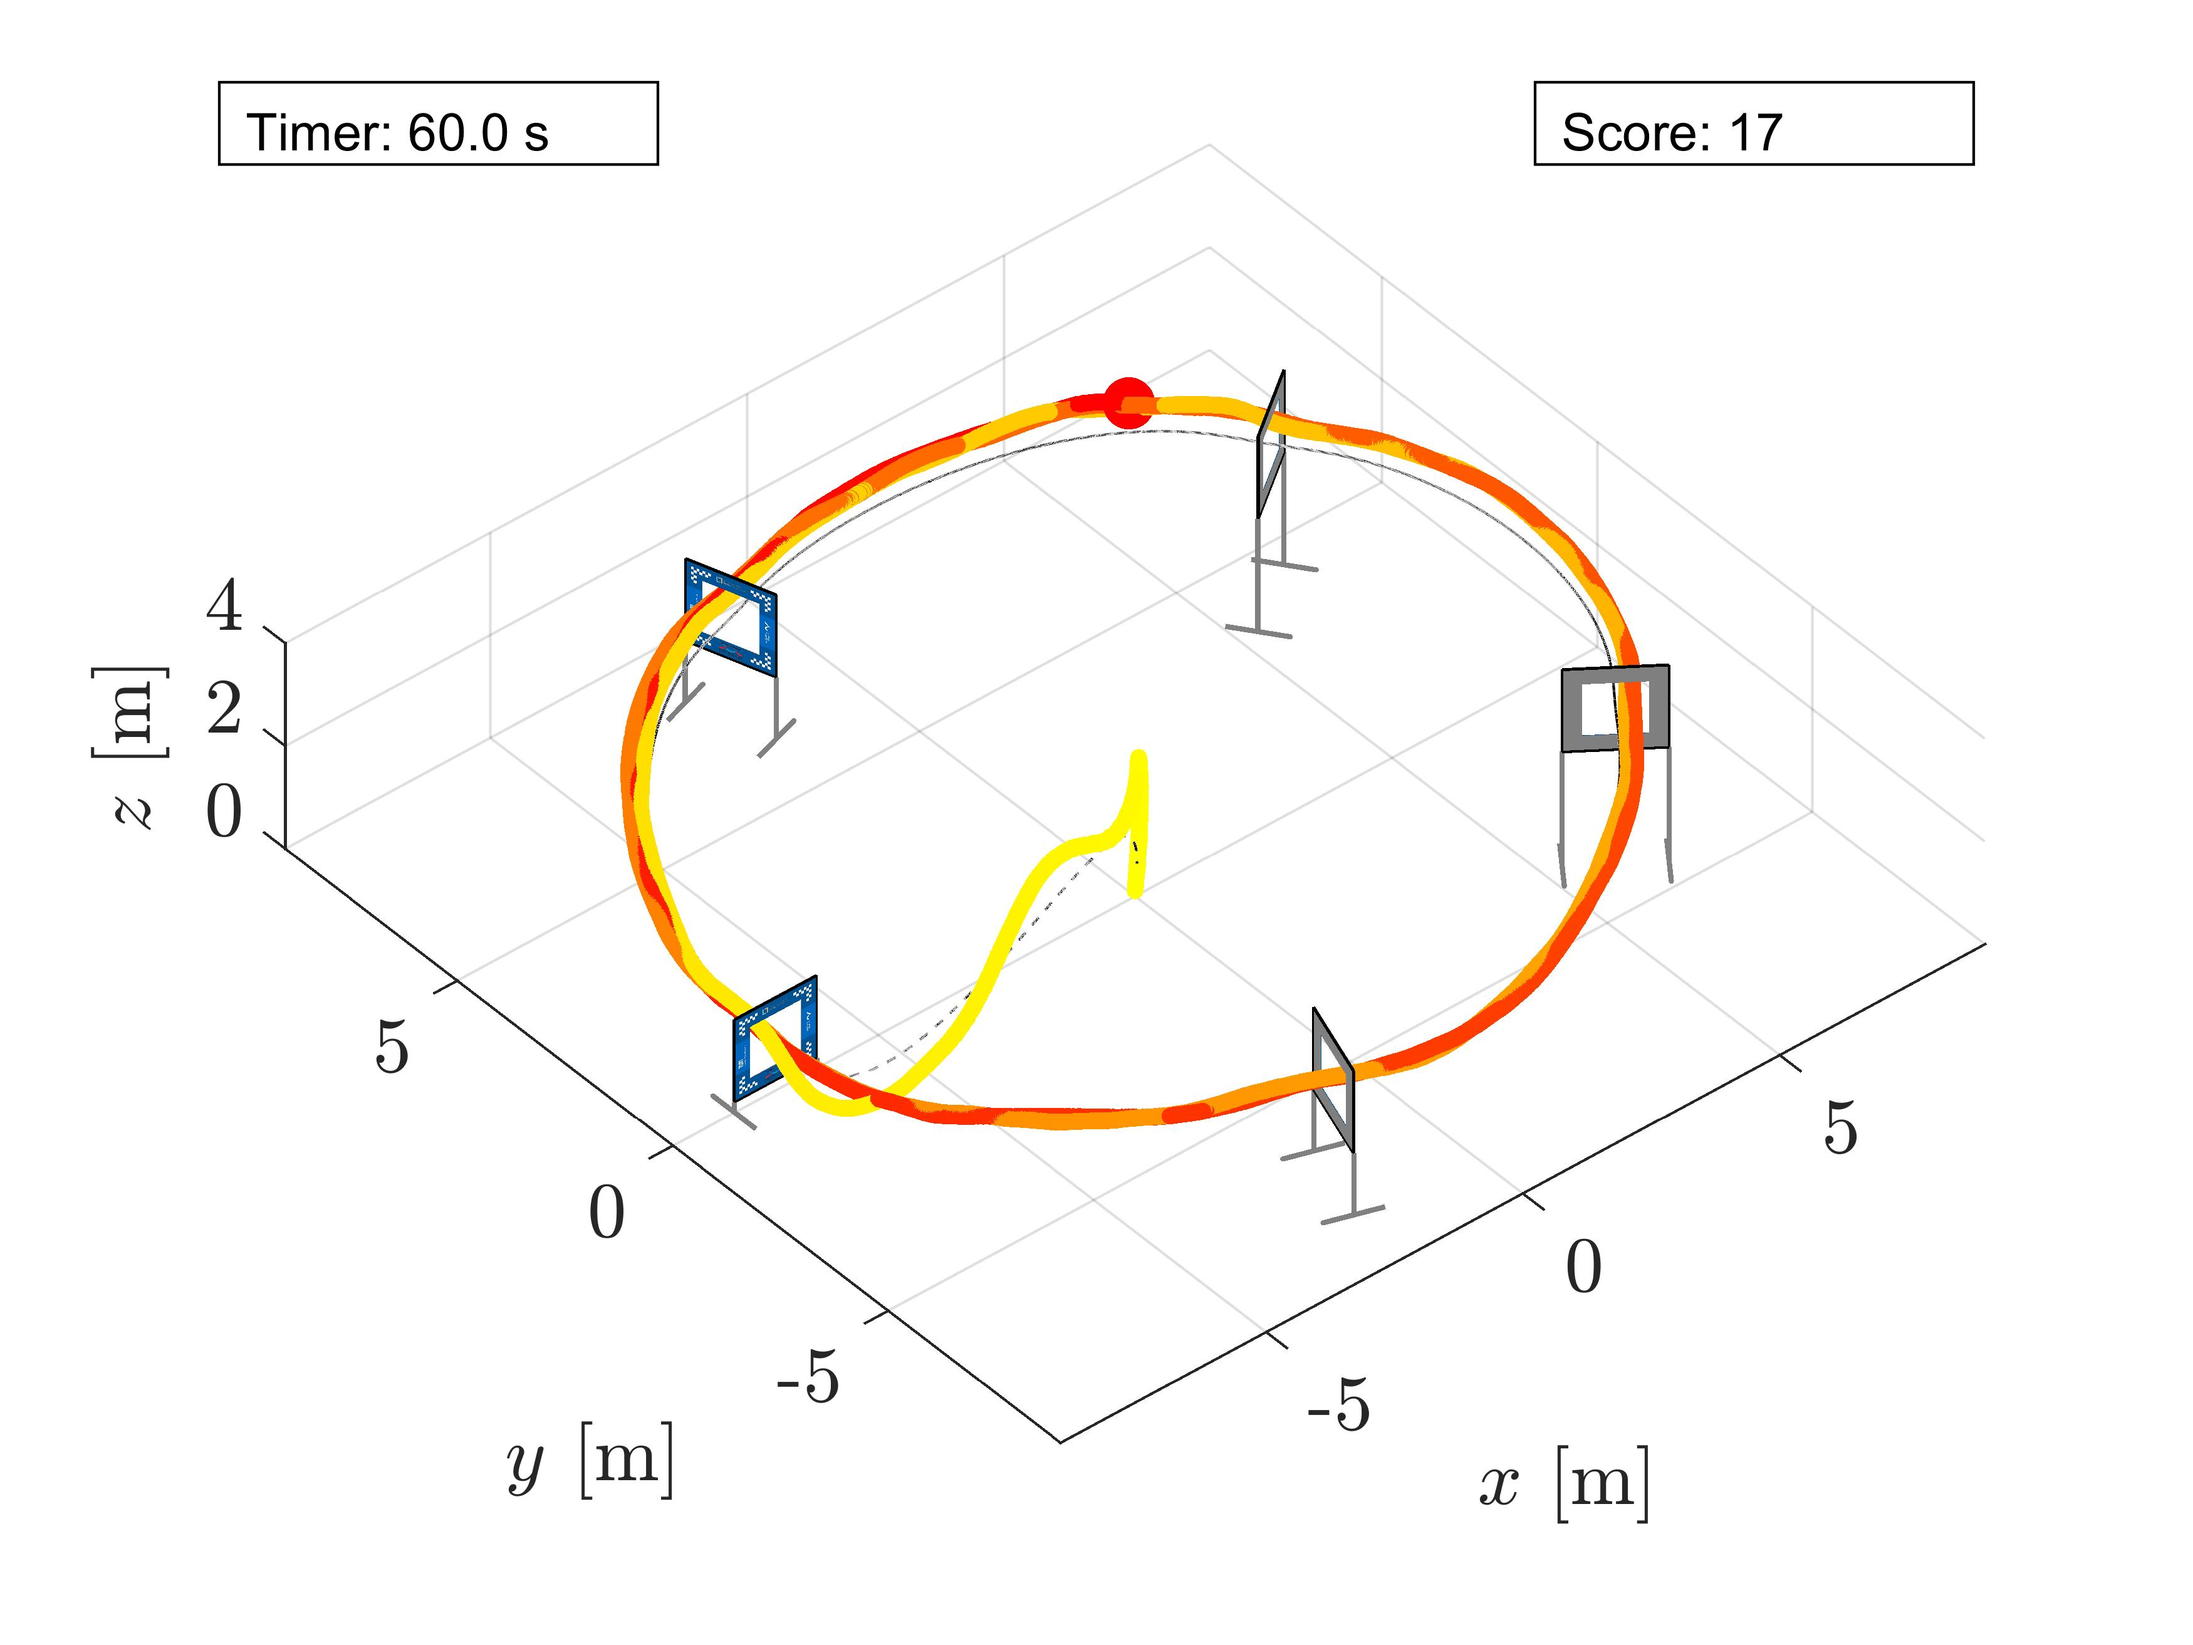
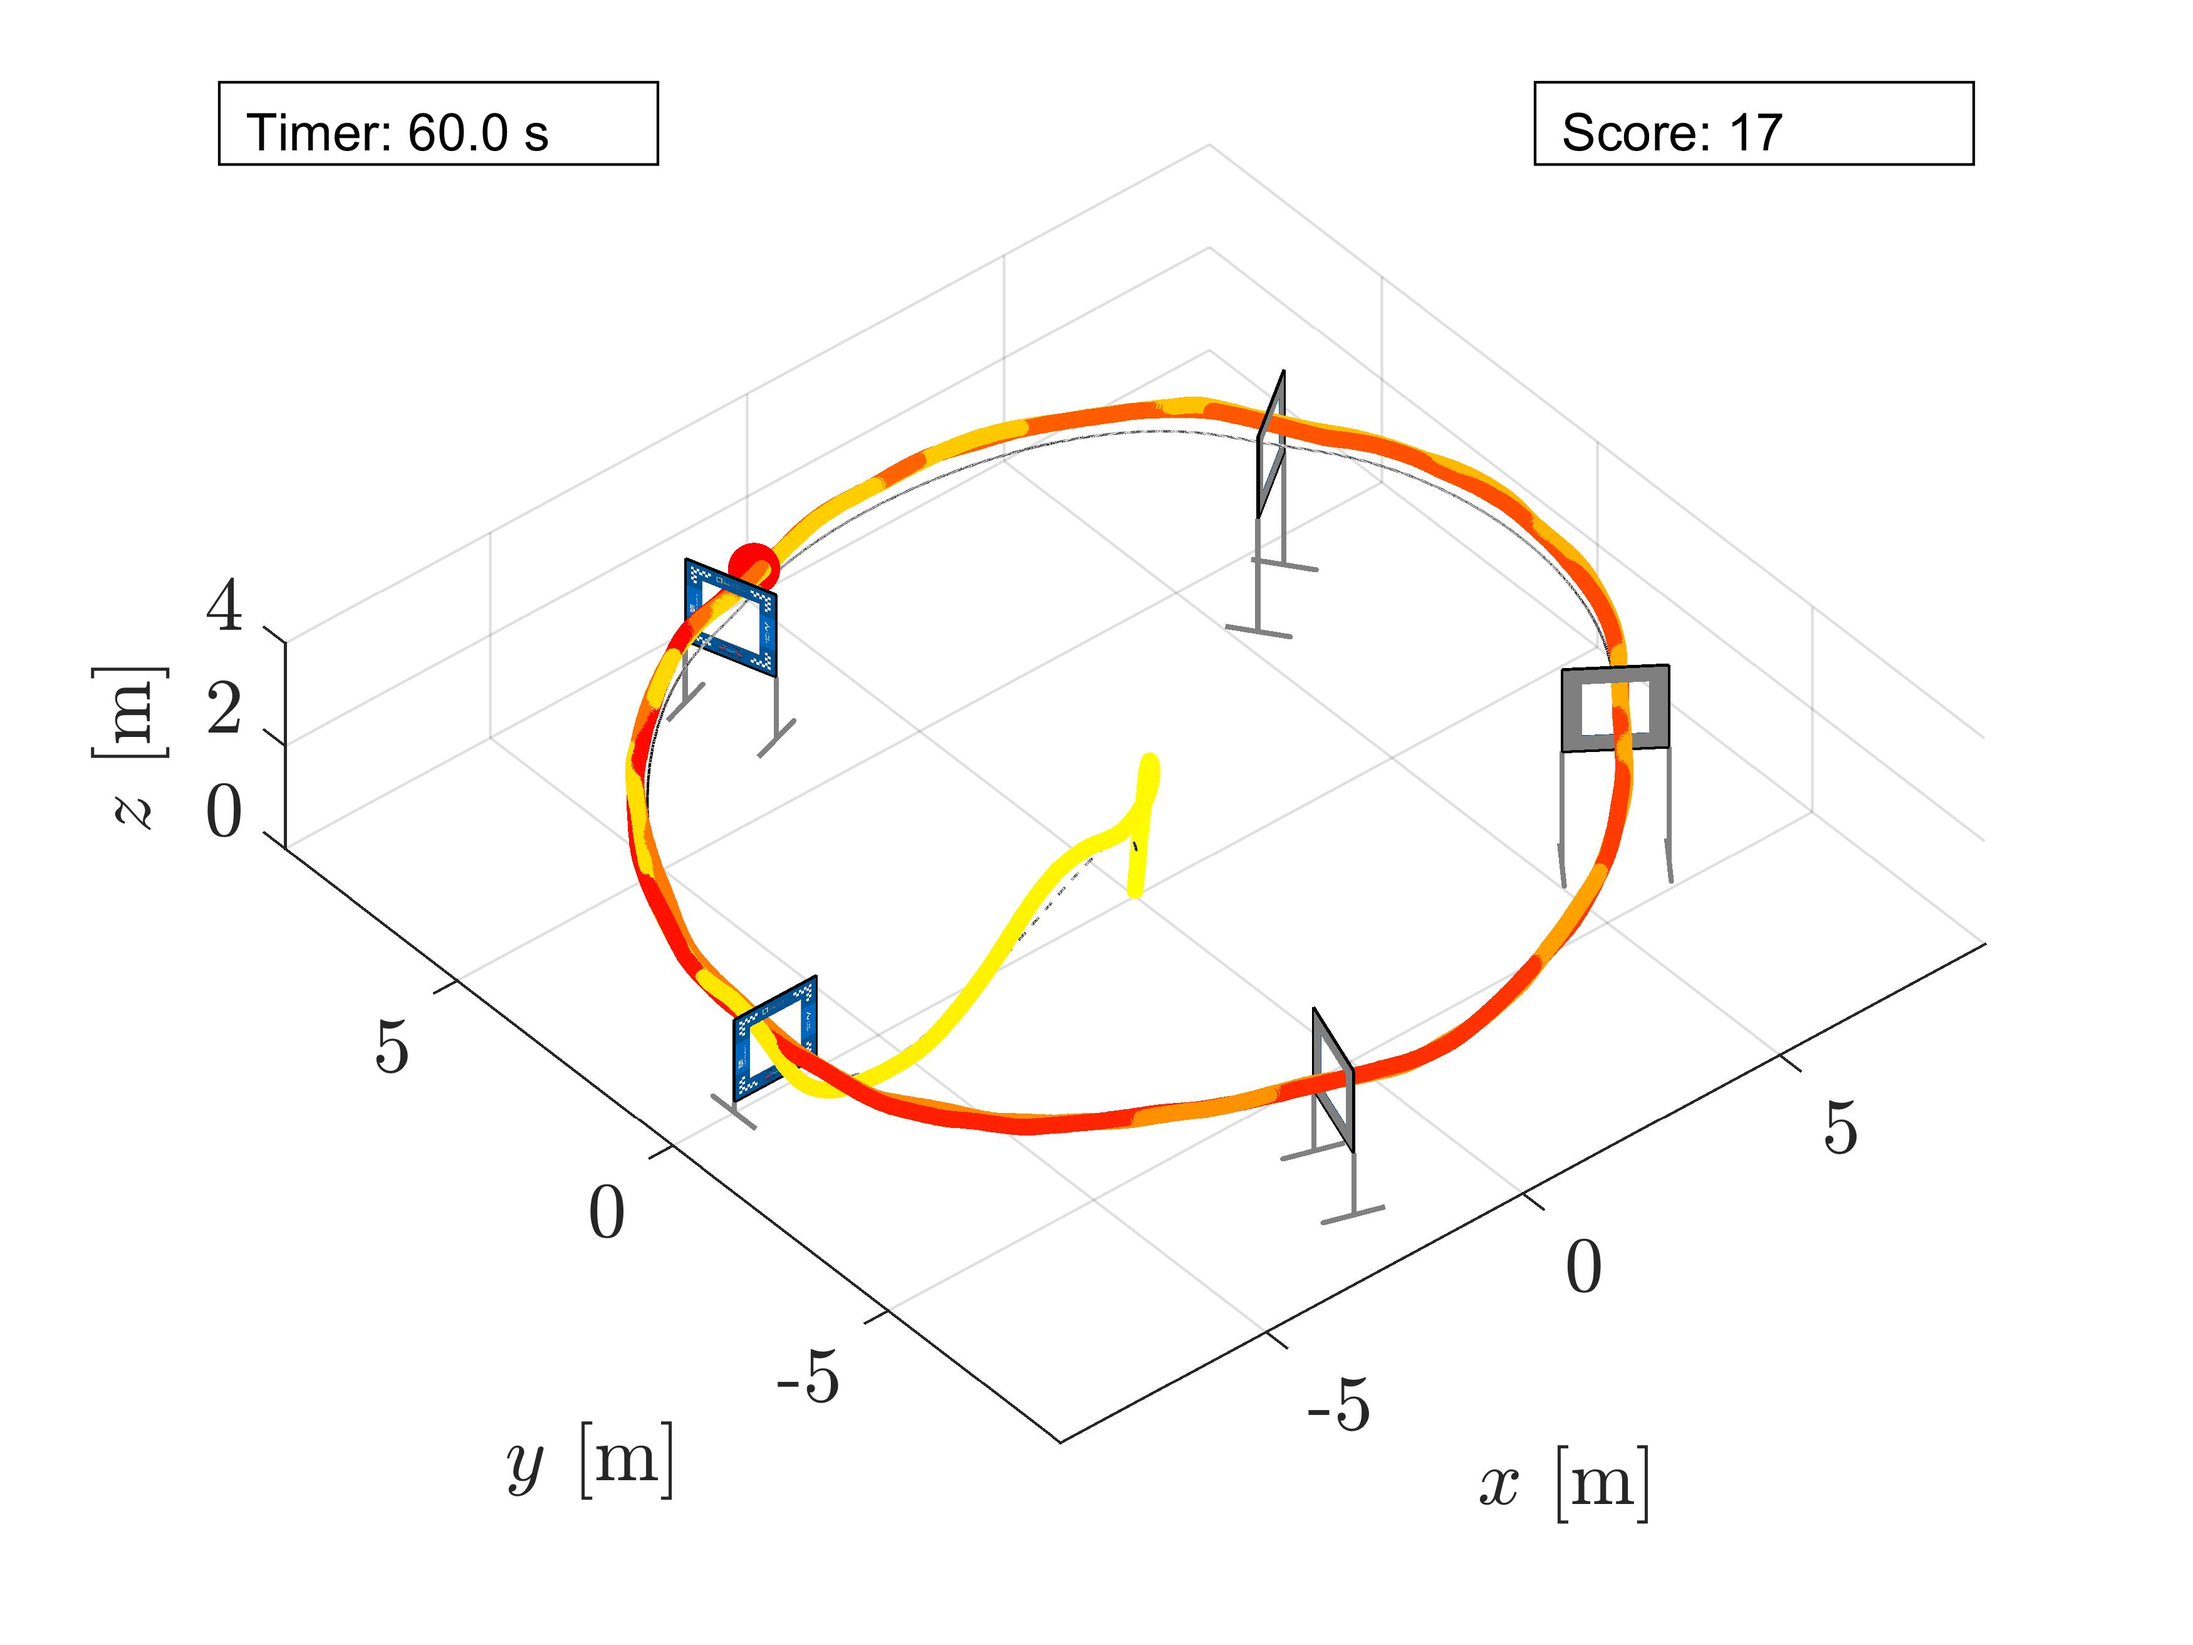
Fuzzy PID 2

diff --git a/fuzzy_control_surface.m b/fuzzy_control_surface.m
@@ -2,20 +2,20 @@ function [lookup_table_p, lookup_table_d] = fuzzy_control_surface()
 % 제어평면 구성 함수 마지막 lookup_table이 제어평면이 된다.
     err_memb_func = [
     %-1   -0.9 -0.8  -0.7  -0.6  -0.5 -0.4   -0.3   -0.2   -0.1   0   0.1   0.2    0.3   0.4  0.5  0.6   0.7  0.8   0.9   1.0
-    1.0, 1.0, 1.0, 0.875, 0.5, 0.1250,  0,   0,     0,    0,    0,   0,    0,     0,    0,   0,   0,    0,    0,    0,   0; % NB
-      0,  0,   0,  0.25,  0.5, 0.7500, 1.0, 0.75,  0.5,  0.25,  0,   0,    0,     0,    0,   0,   0,    0,    0,    0,   0; % NS
-      0,  0,   0,    0,    0,    0,     0,  0.25,  0.5,  0.75, 1.0, 0.75,  0.5,  0.25,  0,   0,   0,    0,    0,    0,   0; % ZE
-      0,  0,   0,    0,    0,    0,     0,   0,    0,     0,    0,  0.25,  0.5,  0.75, 1.0, 0.75, 0.5, 0.25,  0,    0,   0; % PS
-      0,  0,   0,    0,    0,    0,     0,   0,    0,     0,    0,   0,    0,     0,    0,  0.125,0.5, 0.875, 1.0, 1.0, 1.0;% PB   
+    2.0, 1.8, 1.4, 1.0, 0.6, 0.2,  0,   0,     0,    0,    0,   0,    0,     0,    0,   0,   0,    0,    0,    0,   0; % NB
+      0,  0,  0.2, 0.6, 1.2, 1.75, 2.0, 1.75,  1.2,  0.6,  0.2,   0,    0,     0,    0,   0,   0,    0,    0,    0,   0; % NS
+      0,  0,   0,    0,    0,    0,     0.2, 0.6, 1.2, 1.75, 2.0, 1.75,  1.2,  0.6,  0.2,   0,   0,    0,    0,    0,   0; % ZE
+      0,  0,   0,    0,    0,    0,     0,   0,    0,     0,    0.2, 0.6, 1.2, 1.75, 2.0, 1.75,  1.2,  0.6,  0.2,    0,   0; % PS
+      0,  0,   0,    0,    0,    0,     0,   0,    0,     0,    0,   0,    0,     0,    0.2,  0.6, 1.0, 1.4, 1.8, 2.0, 2.0;% PB   
     ];
 
     d_err_memb_func = [
     %-1   -0.9 -0.8  -0.7  -0.6  -0.5 -0.4   -0.3   -0.2   -0.1   0   0.1   0.2    0.3   0.4  0.5  0.6   0.7  0.8   0.9   1.0
-    1.0, 1.0, 1.0, 0.875, 0.5, 0.1250,  0,   0,     0,    0,    0,   0,    0,     0,    0,   0,   0,    0,    0,    0,   0; % NB
-      0,  0,   0,  0.25,  0.5, 0.7500, 1.0, 0.75,  0.5,  0.25,  0,   0,    0,     0,    0,   0,   0,    0,    0,    0,   0; % NS
-      0,  0,   0,    0,    0,    0,     0,  0.25,  0.5,  0.75, 1.0, 0.75,  0.5,  0.25,  0,   0,   0,    0,    0,    0,   0; % ZE 
-      0,  0,   0,    0,    0,    0,     0,   0,    0,     0,    0,  0.25,  0.5,  0.75, 1.0, 0.75, 0.5, 0.25,  0,    0,   0; % PS
-      0,  0,   0,    0,    0,    0,     0,   0,    0,     0,    0,   0,    0,     0,    0,  0.125,0.5, 0.875, 1.0, 1.0, 1.0;% PB   
+    2.0, 1.8, 1.4, 1.0, 0.6, 0.2,  0,   0,     0,    0,    0,   0,    0,     0,    0,   0,   0,    0,    0,    0,   0; % NB
+      0,  0,  0.2, 0.6, 1.2, 1.75, 2.0, 1.75,  1.2,  0.6,  0.2,   0,    0,     0,    0,   0,   0,    0,    0,    0,   0; % NS
+      0,  0,   0,    0,    0,    0,     0.2, 0.6, 1.2, 1.75, 2.0, 1.75,  1.2,  0.6,  0.2,   0,   0,    0,    0,    0,   0; % ZE
+      0,  0,   0,    0,    0,    0,     0,   0,    0,     0,    0.2, 0.6, 1.2, 1.75, 2.0, 1.75,  1.2,  0.6,  0.2,    0,   0; % PS
+      0,  0,   0,    0,    0,    0,     0,   0,    0,     0,    0,   0,    0,     0,    0.2,  0.6, 1.0, 1.4, 1.8, 2.0, 2.0;% PB   
     ];
 
     % NB=1, NS =2, ZE=3, PS=4, PB=5

diff --git a/MAIN.m b/MAIN.m
@@ -74,34 +74,34 @@ end
 
 %% Show animation
 
-score = environment(gates, pose, pose_d);
-% figure(1)
-% plot(t,error_pos(:,1),'r')
-% hold on
-% plot(t,error_pos(:,2),'b')
-% plot(t,error_pos(:,3),'k')
-% hold off
-% legend('x error','y error','z error')
-% 
-% figure(2)
-% tiledlayout(3,1)
-% nexttile
-% plot(t,error_att(:,1),'r')
-% legend('Roll error')
-% nexttile
-% plot(t,error_att(:,2),'b')
-% legend('Pitch error')
-% nexttile
-% plot(t,error_att(:,3),'k')
-% legend('Yaw error')
-% 
-% figure(3)
-% plot(t,saved_error(1,:),'r')
-% hold on
-% plot(t,saved_error(2,:),'b')
-% plot(t,saved_error(3,:),'k')
-% hold off
-% legend('yaw * x error',' yaw * y error','yaw * z error')
+% score = environment(gates, pose, pose_d);
+figure(1)
+plot(t,error_pos(:,1),'r')
+hold on
+plot(t,error_pos(:,2),'b')
+plot(t,error_pos(:,3),'k')
+hold off
+legend('x error','y error','z error')
+
+figure(2)
+tiledlayout(3,1)
+nexttile
+plot(t,error_att(:,1),'r')
+legend('Roll error')
+nexttile
+plot(t,error_att(:,2),'b')
+legend('Pitch error')
+nexttile
+plot(t,error_att(:,3),'k')
+legend('Yaw error')
+
+figure(3)
+plot(t,saved_error(1,:),'r')
+hold on
+plot(t,saved_error(2,:),'b')
+plot(t,saved_error(3,:),'k')
+hold off
+legend('yaw * x error',' yaw * y error','yaw * z error')
 %% Show results
 
 % disp('**********');

diff --git a/trajectory.m b/trajectory.m
@@ -31,7 +31,7 @@ function [pose_d, velocity_d] = trajectory(gates)
 
 global initial_state dt;
 
-desired_speed = 1.9; % desired speed over the trajectory [in m/s]
+desired_speed = 1.8; % desired speed over the trajectory [in m/s]
 
 %% Calculate waypoints
 
